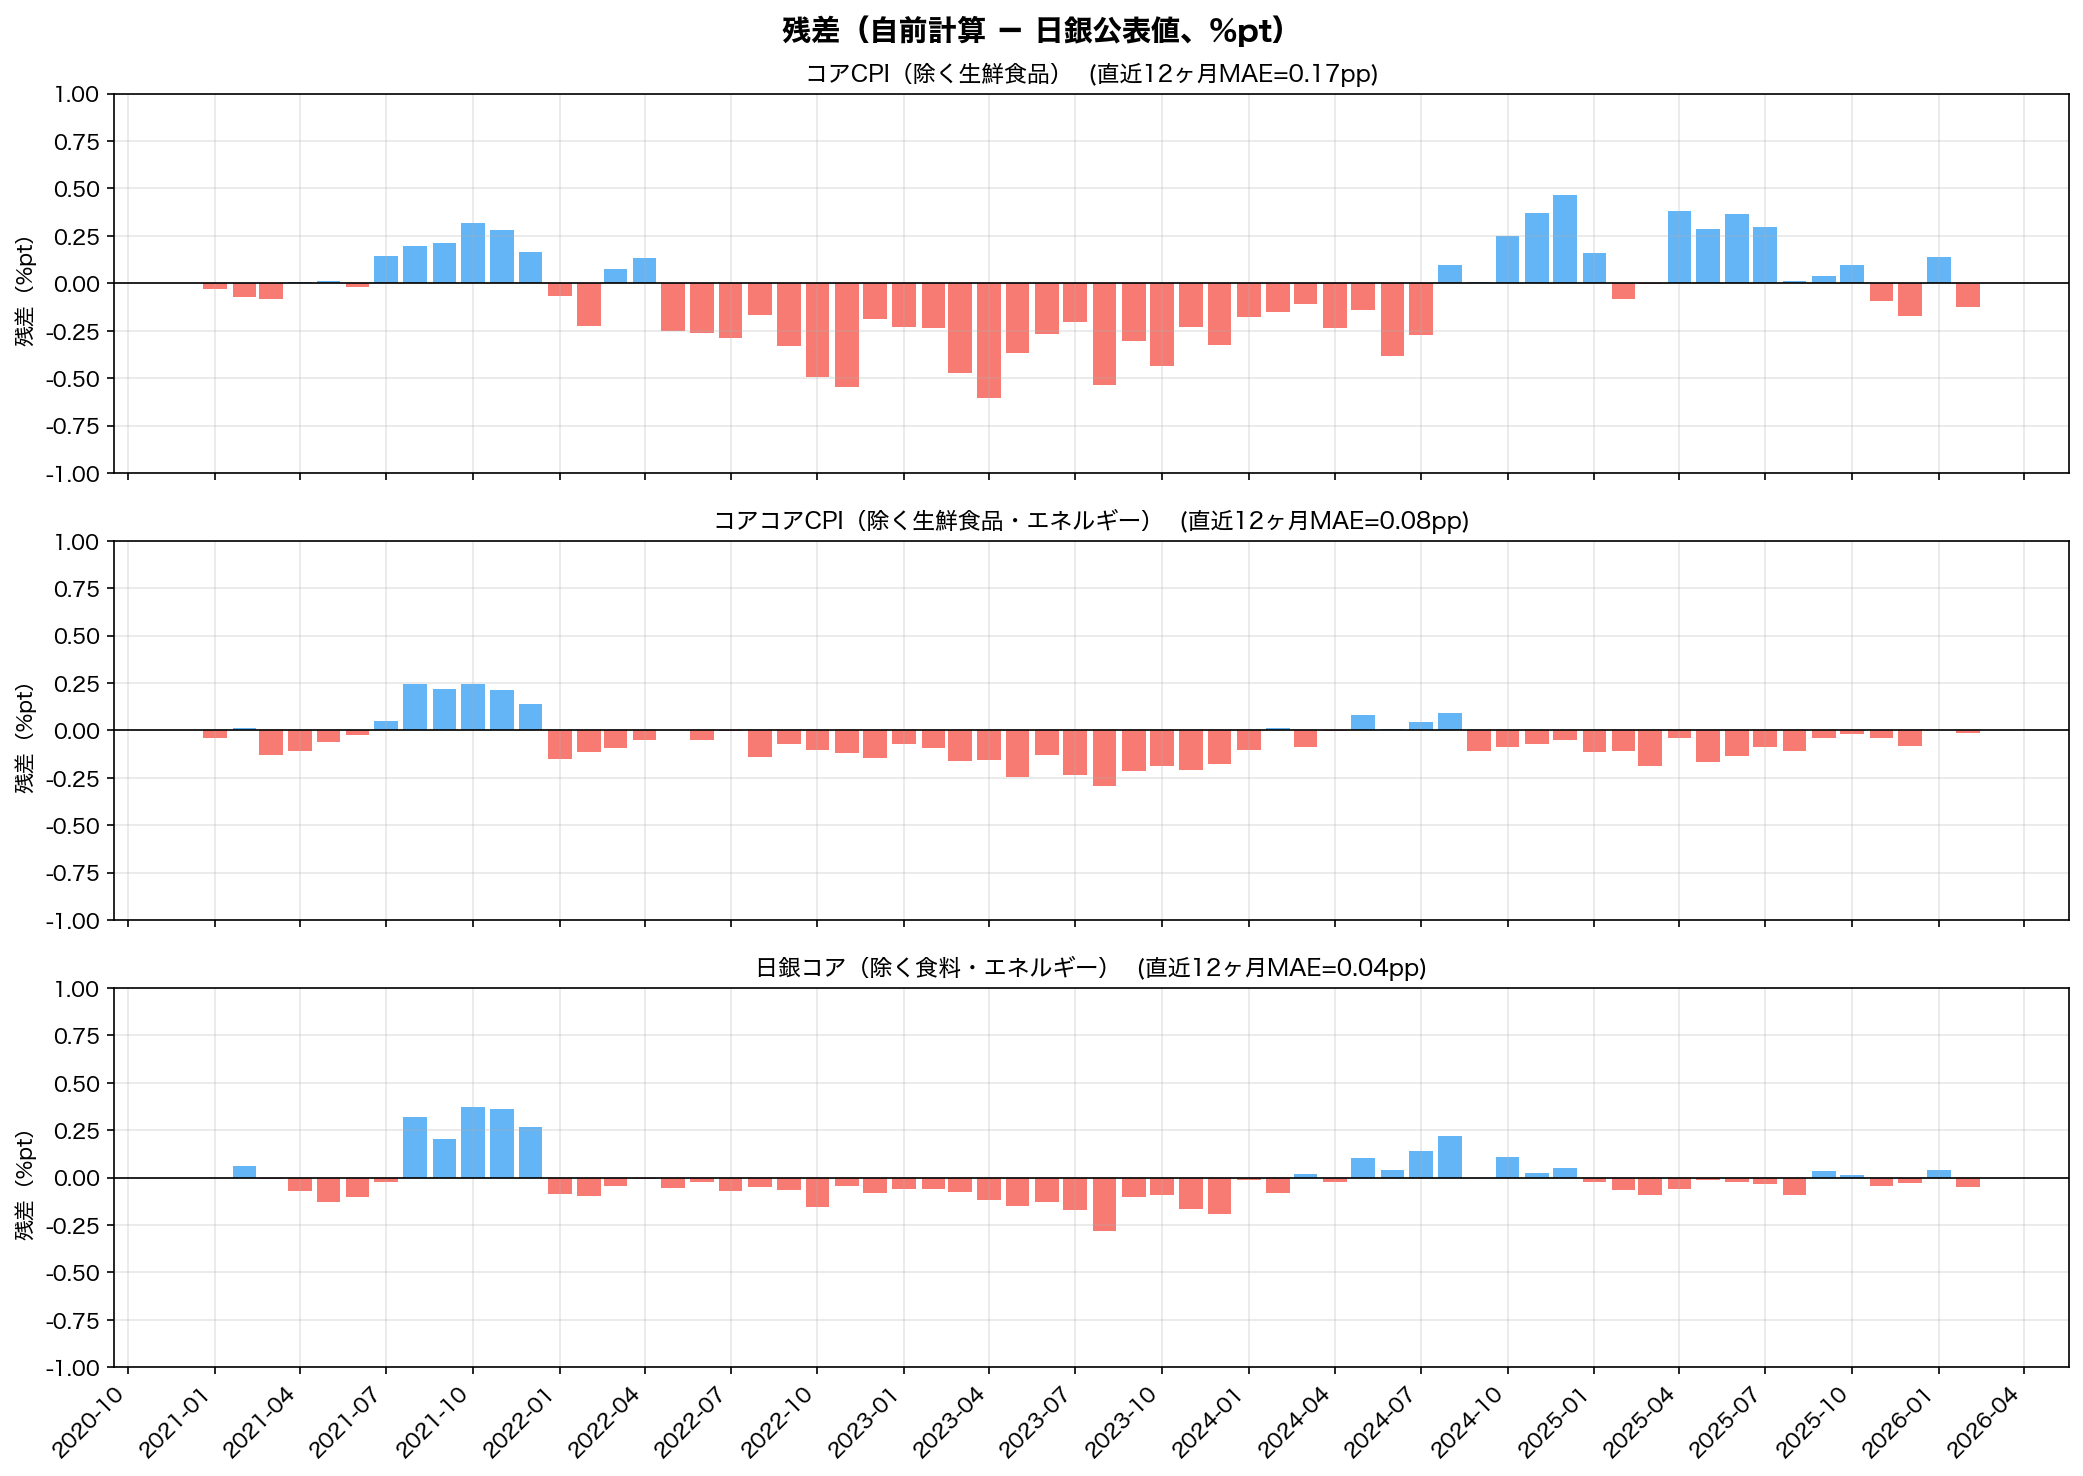
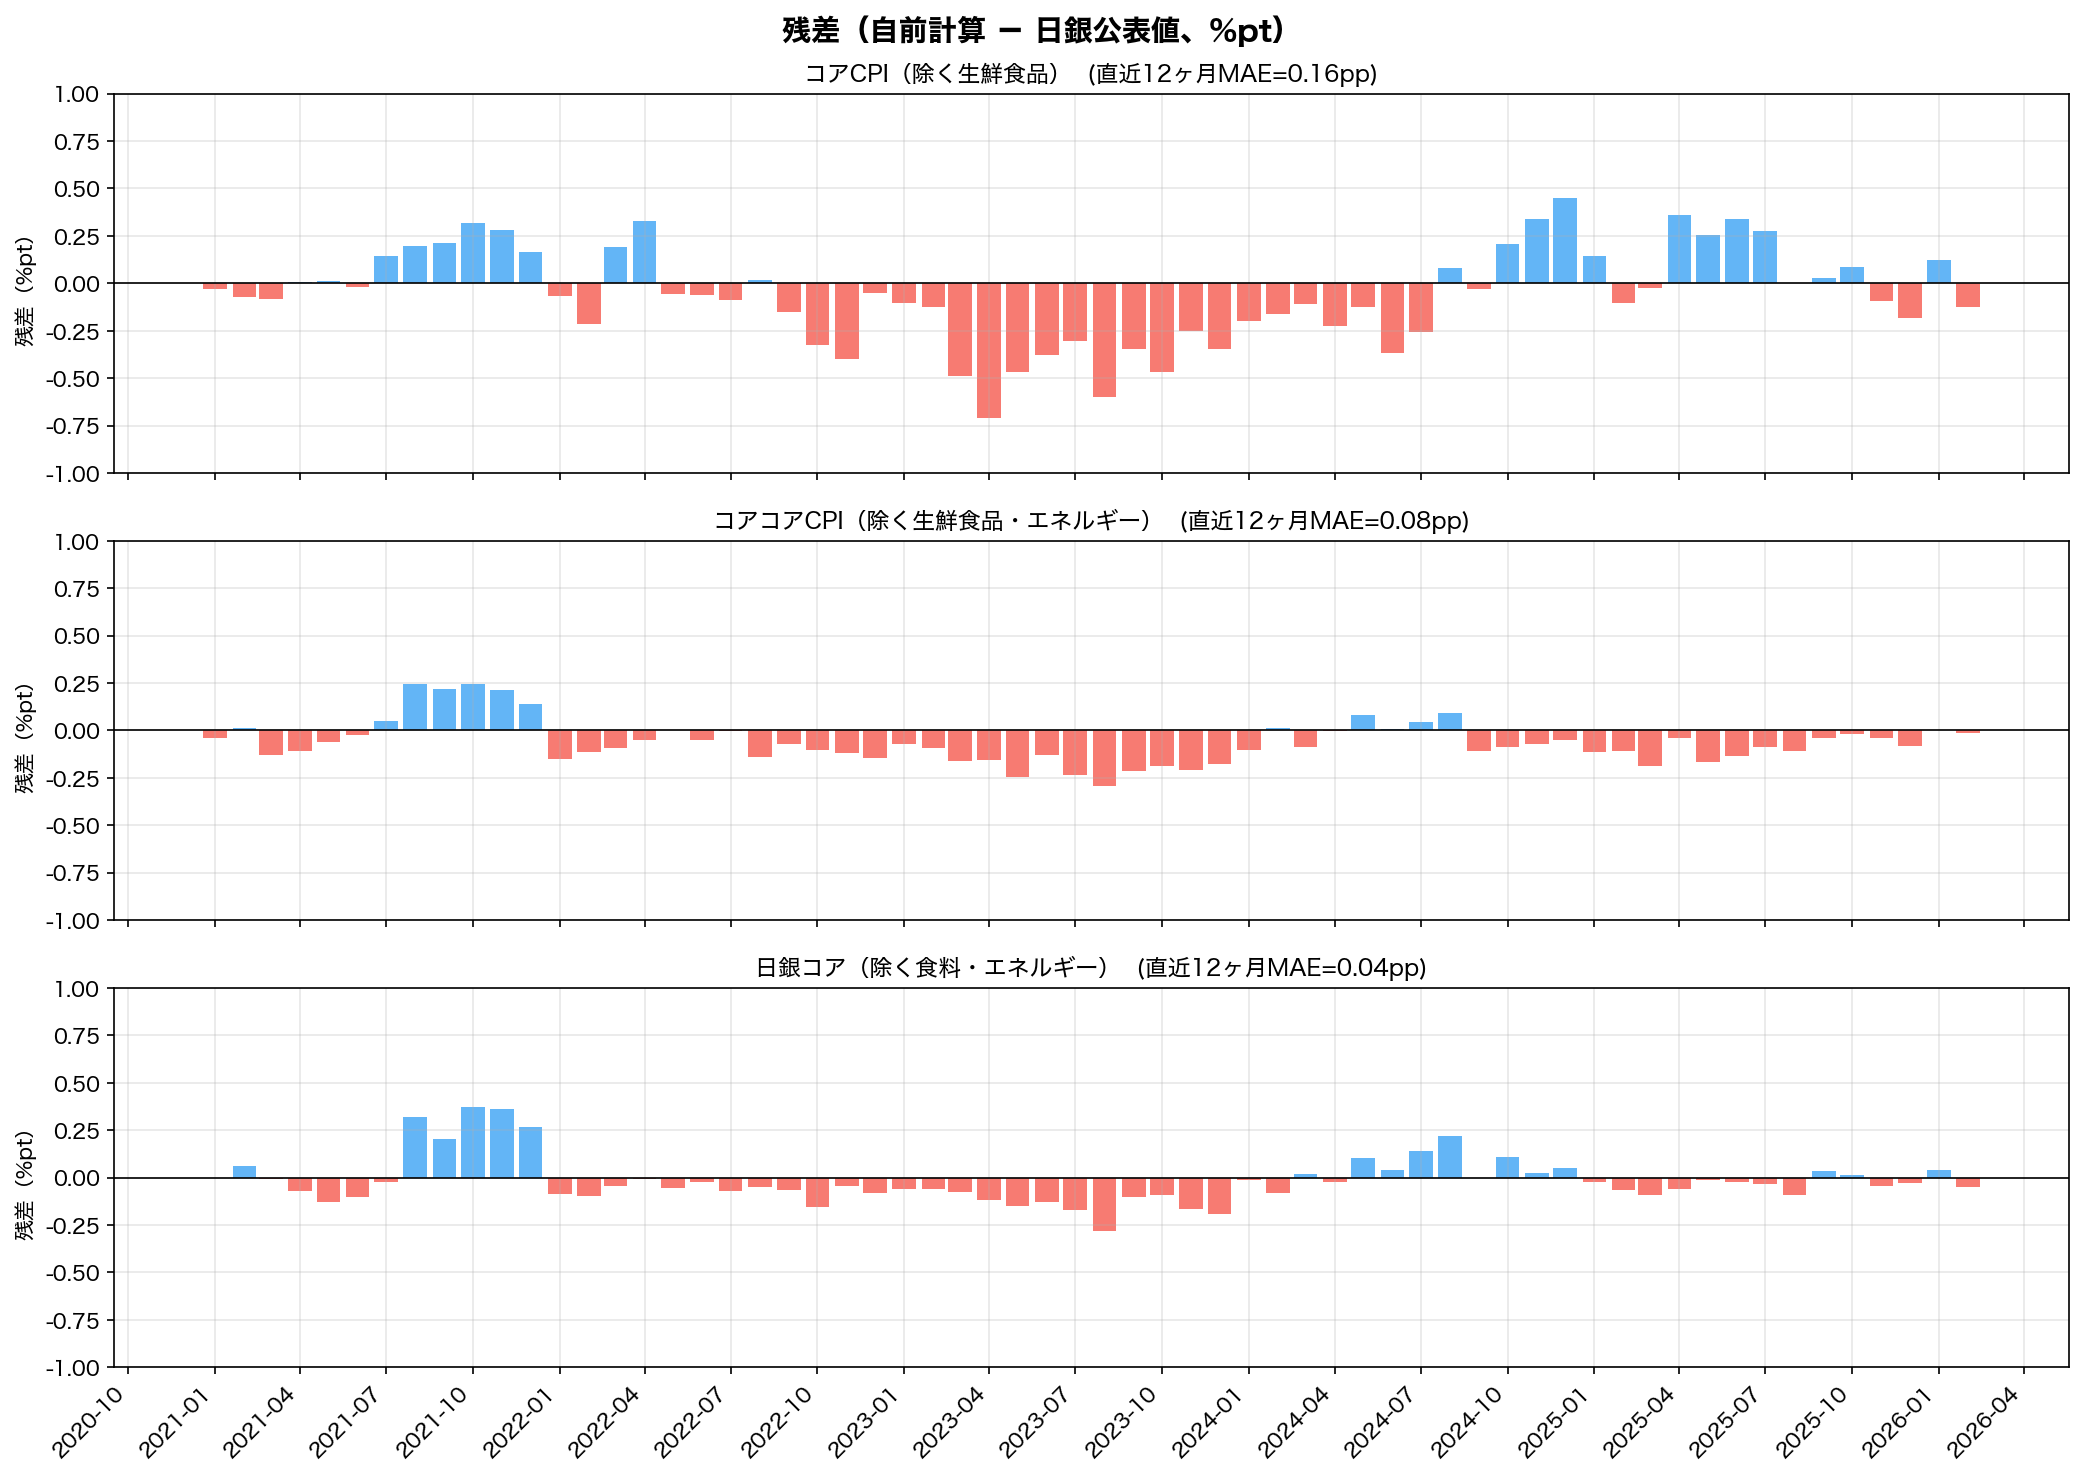
灯油(3701)の調整を追加
PDFグラフから月次補助額を読み取り。w=38。
コアCPI MAE: 0.17→0.11pp（直近6ヶ月）

diff --git a/src/adjust_kerosene.py b/src/adjust_kerosene.py
@@ -1,0 +1,39 @@
+"""灯油調整
+
+調整方式:
+  ガソリンと同じ燃料油補助制度の対象。
+  PDFグラフ（nenryo-teigakuhikisage.go.jp/current_graph.pdf 3ページ目）から
+  月次の補助なし価格と小売価格を読み取り、差額を補助額として使用。
+
+  I_adj(t) = I_CPI(t) + subsidy(t) / P₀ × 100
+
+  P₀ = 2020年平均灯油小売価格
+
+注意:
+  灯油にはガソリンの暫定税率に相当するものはないため、税制調整は不要。
+"""
+
+import pandas as pd
+
+from src.config import POLICY_DIR
+
+KEROSENE_ITEM_CODE = "3701"
+
+
+def compute_adjusted_index(cpi_index: pd.Series) -> pd.Series:
+    """灯油調整済CPI指数を算出"""
+    path = POLICY_DIR / "kerosene_subsidy_monthly.csv"
+    df = pd.read_csv(path)
+    sub_dict = dict(zip(df["year_month"], df["subsidy_total"]))
+
+    # P₀: CPI 2020年平均=100 → P₀ = 2020年平均灯油小売価格
+    # METI 2020年平均灯油(店頭)は約81円/L
+    P0 = 81.0
+
+    adjusted = cpi_index.copy()
+    for ym in cpi_index.index:
+        sub = sub_dict.get(ym, 0.0)
+        if sub > 0:
+            adjusted[ym] = cpi_index[ym] + sub / P0 * 100
+
+    return adjusted

diff --git a/scripts/plot_results.py b/scripts/plot_results.py
@@ -17,6 +17,7 @@ from src.fetch_boj import parse_boj
 from src.item_master import load_item_master
 from src.aggregate import compute_weighted_index, compute_yoy, get_official_series
 from src.adjust_gasoline import compute_adjusted_index as adjust_gasoline
+from src.adjust_kerosene import compute_adjusted_index as adjust_kerosene
 from src.adjust_energy import compute_adjusted_index as adjust_energy
 from src.adjust_education import get_all_education_adjusted
 from src.adjust_interpolation import adjust_mobile, adjust_hotel
@@ -35,6 +36,7 @@ def build_adjusted_indices():
 
     indices_adj = indices.copy()
     indices_adj["7301"] = adjust_gasoline(indices["7301"])
+    indices_adj["3701"] = adjust_kerosene(indices["3701"])
     indices_adj["3500"] = adjust_energy(indices["3500"], "electricity")
     indices_adj["3600"] = adjust_energy(indices["3600"], "gas")
     for code, adj in get_all_education_adjusted(indices).items():
